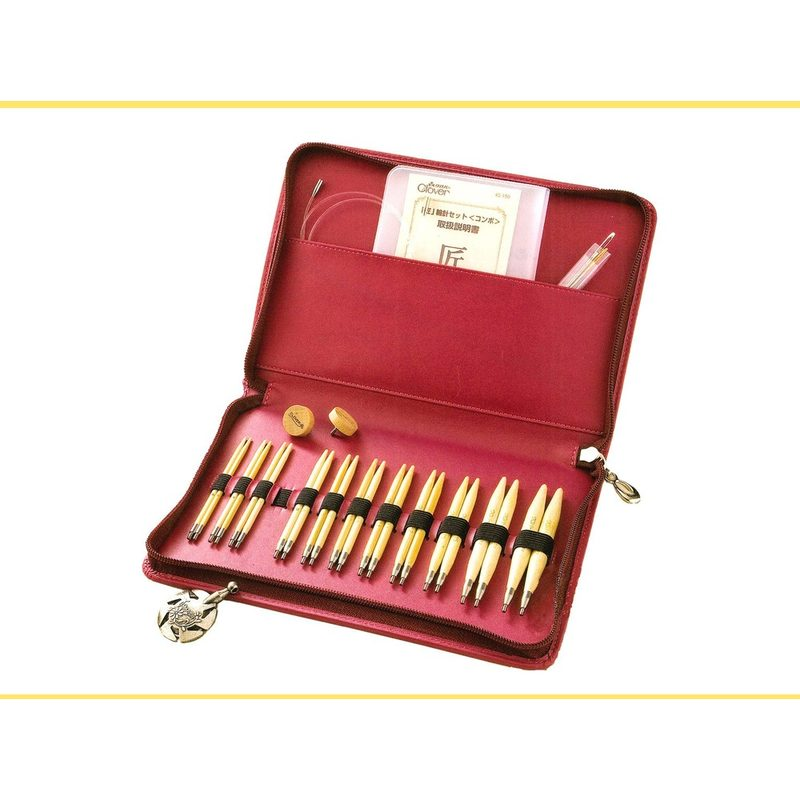
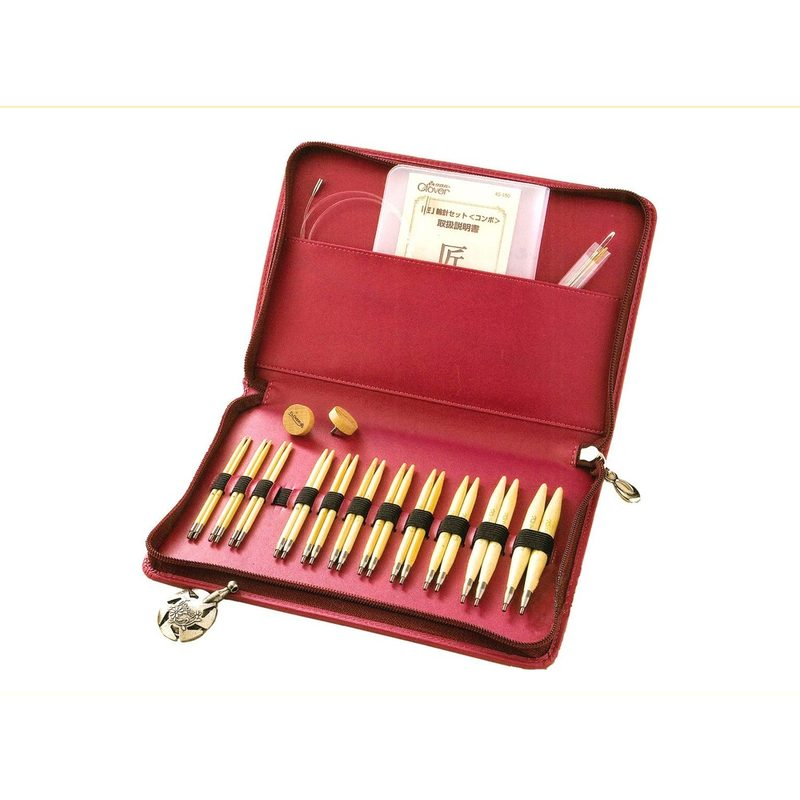
design: 상품 사진을 카드 정사각형에 꽉 차게(높이 자동) · 합성 배너의 노란 테두리 제거

diff --git a/index.html b/index.html
@@ -159,10 +159,10 @@ sec,.sec{display:block}
 .grid{display:grid;grid-template-columns:1fr;gap:26px 22px}
 .card{display:flex;flex-direction:column;min-width:0}
 .card .ph{
-  position:relative;border:1px solid var(--line);border-radius:var(--r-img);
+  display:block;position:relative;border:1px solid var(--line);border-radius:var(--r-img);
   background:var(--card);overflow:hidden
 }
-.card .ph img{width:100%;aspect-ratio:1;object-fit:contain;transition:transform .5s cubic-bezier(.2,.8,.2,1)}
+.card .ph img{width:100%;height:auto;aspect-ratio:1;object-fit:contain;transition:transform .5s cubic-bezier(.2,.8,.2,1)}
 .card:hover .ph{border-color:var(--line-strong)}
 .card:hover .ph img{transform:scale(1.03)}
 .card .cat{
